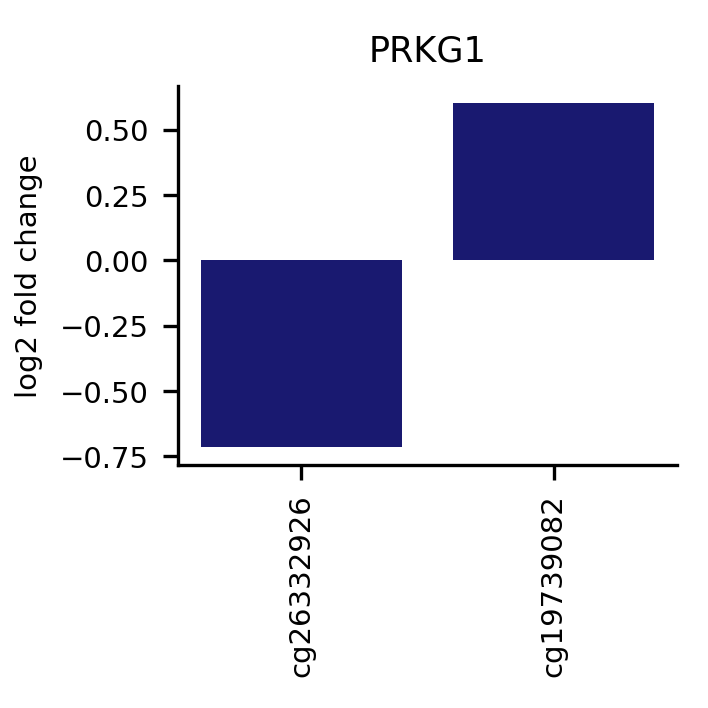
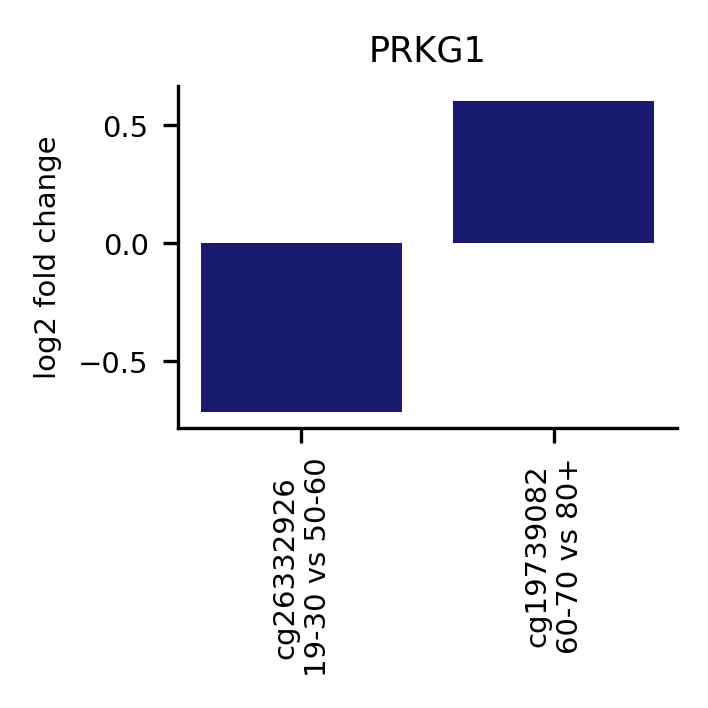
added age grouping

diff --git a/compare_age_groups/overlap_sig.py b/compare_age_groups/overlap_sig.py
@@ -103,9 +103,10 @@ def group_genes(unique_genes):
     unique_genes_grouped=single_genes
     return unique_genes_grouped
 
-def find_overlap(joined_dfs):
+def find_overlap(joined_dfs, agebins):
     '''Find markers that overlap significantly and have FC>1.5 across comparisons
     '''
+
     unique_probes = joined_dfs['Reporter Identifier'].unique()
     # for u_probe in unique_probes:
     #     overlap = joined_dfs[joined_dfs['Reporter Identifier']==u_probe]
@@ -141,11 +142,17 @@ def find_overlap(joined_dfs):
         #Check fold change
         log2fc = np.log2(gene_df['fold_change'])
         if min(log2fc)<0 and max(log2fc)>0:
+
                  print('FOUND!!!!', gene_group)
+                 #Get age bins
+                 age_comparisons = []
+                 for index, row in gene_df.iterrows():
+                     age_comparisons.append(agebins[row['id1']]+' vs '+agebins[row['id2']])
+
                  fig,ax = plt.subplots(figsize=(6/2.54, 6/2.54))
                  plt.bar(np.arange(len(log2fc)), log2fc, color = 'midnightblue')
                  plt.title(gene_group)
-                 plt.xticks(np.arange(len(log2fc)), gene_df['Reporter Identifier'].values, rotation='vertical')
+                 plt.xticks(np.arange(len(log2fc)), gene_df['Reporter Identifier'].values+'\n'+age_comparisons, rotation='vertical')
                  ax.spines['top'].set_visible(False)
                  ax.spines['right'].set_visible(False)
                  plt.ylabel('log2 fold change')
@@ -217,5 +224,5 @@ except:
 
 
 #Find overlapping markers
-find_overlap(joined_dfs)
+find_overlap(joined_dfs, agebins)
 pdb.set_trace()
